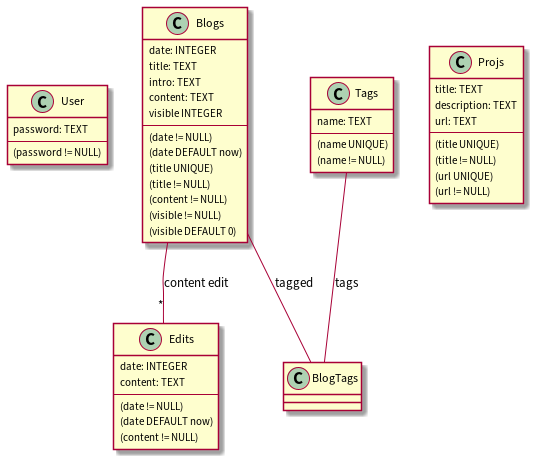
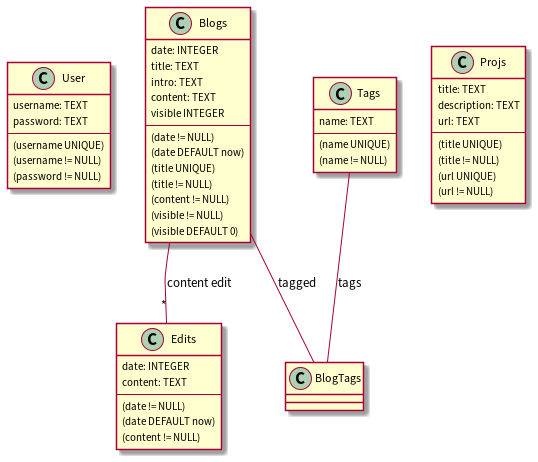
Add: user auth.

diff --git a/resources/views/layouts/header.php b/resources/views/layouts/header.php
@@ -39,10 +39,10 @@
 
     <ul id="menu">
       <li><a href="<?php echo route('about_route'); ?>">About me</a></li>
-      <li><a href="/pages/blog/">Blog Index</a></li>
+      <li><a href="<?php echo route('blog_index_route'); ?>">Blog Index</a></li>
       <li><a href="<?php echo route('contacts_route'); ?>">Contacts</a></li>
       <li>
-        <a href="<?php echo route('projects_route'); ?>">Projects</a>
+        <a href="<?php echo route('projects_route'); ?>">Projects ></a>
         <ul class="menuDropdown">
           <li><a href="<?php echo route('projects_route'); ?>">Projects</a></li>
           <li><a href="/pages/workshops/">Workshops</a></li>
@@ -51,18 +51,23 @@
       </li>
       <li>
         <a href="https://gitlab.com/JoaoCostaIFG">
-          <img src="<?php echo img('gitlab-icon.png'); ?>" alt="Gitlab" />
+          <img src="<?php echo img('gitlab-icon.png'); ?>" alt="Gitlab">
         </a>
       </li>
       <li>
         <a href="https://github.com/JoaoCostaIFG">
-          <img src="<?php echo img('github-icon.png'); ?>" alt="Github" />
+          <img src="<?php echo img('github-icon.png'); ?>" alt="Github">
         </a>
       </li>
       <li>
         <a href="/atom.xml">
-          <img src="<?php echo img('rss-icon.png'); ?>" alt="RSS" />
+          <img src="<?php echo img('rss-icon.png'); ?>" alt="RSS">
         </a>
       </li>
+      <?php if (is_auth()) { ?>
+        <li><a href="<?php echo route('user_logout_route'); ?>">Logout</a></li>
+      <?php } else { ?>
+        <li><a href="<?php echo route('user_login_route'); ?>">Login</a></li>
+      <?php } ?>
     </ul>
   </header>

diff --git a/App/Models/UserModel.php b/App/Models/UserModel.php
@@ -1,0 +1,53 @@
+<?php
+
+namespace Models;
+
+require_once $_SERVER['DOCUMENT_ROOT'] . '/database/db.php';
+
+use Database;
+use Exception;
+
+class UserModel
+{
+  private $id, $username, $password;
+
+  public function __construct($username)
+  {
+    $db = Database::instance()->db();
+
+    $stmt = $db->prepare('SELECT * FROM User WHERE user_username = ?');
+    $stmt->execute(array($username));
+
+    $blog = $stmt->fetch();
+    if ($blog === false)
+      throw new Exception("Failed to create User model.");
+
+    $this->id = $blog['user_id'];
+    $this->username = $blog['user_username'];
+    $this->password = $blog['user_password'];
+  }
+
+  /**
+   * @return User id
+   */
+  public function getId()
+  {
+    return $this->id;
+  }
+
+  /**
+   * @return User username
+   */
+  public function getUsername()
+  {
+    return $this->username;
+  }
+
+  /**
+   * @return User password
+   */
+  public function getPassword()
+  {
+    return $this->password;
+  }
+}

diff --git a/App/Controllers/UserController.php b/App/Controllers/UserController.php
@@ -1,0 +1,44 @@
+<?php
+
+namespace Controllers;
+
+use Exception;
+use Models\UserModel;
+
+class UserController
+{
+  public static function showLoginForm()
+  {
+    view('user/login_page.php');
+  }
+
+  public static function login()
+  {
+    if (!isset($_POST['username']) || !isset($_POST['password'])) {
+      // TODO set error
+      redirect('login');
+    }
+
+    try {
+      $u = new UserModel($_POST['username']);
+    } catch (Exception $e) {
+      // TODO set error
+      redirect('login');
+    }
+
+    if (!password_verify($_POST['password'], $u->getPassword())) {
+      // TODO set error
+      redirect('login');
+    }
+
+    // congrats you logged in
+    $_SESSION['u'] = $u;
+    redirect('home');
+  }
+
+  public static function logout()
+  {
+    unset($_SESSION['u']);
+    redirect('home');
+  }
+}

diff --git a/resources/php/session.php b/resources/php/session.php
@@ -1,0 +1,26 @@
+<?php
+function is_auth()
+{
+  return isset($_SESSION['u']);
+}
+
+function generate_random_token()
+{
+  return bin2hex(openssl_random_pseudo_bytes(32));
+}
+
+// To mitigate xss
+// IMP uncomments the line bellow when hosting (not localhost)
+// session_set_cookie_params(0, '/', '.joaocosta.dev', true, true);
+
+session_start();
+
+// Prevents session fixation attacks
+// Make sure the following are set in your php.ini file (both are the defaults):
+// session.use_only_cookies = 1
+// session.use_trans_sid = 0
+session_regenerate_id(true);
+
+if (!isset($_SESSION['csrf'])) {
+  $_SESSION['csrf'] = generate_random_token();
+}

diff --git a/resources/views/pages/user/login_page.php b/resources/views/pages/user/login_page.php
@@ -1,0 +1,13 @@
+<?php layout_header('Login'); ?>
+
+<h2>Login</h2>
+
+<form method="POST" action="<?php echo route('user_login_action'); ?>">
+  <label for="username"><b>Username *</b></label>
+  <input id="username" type="text" name="username" placeholder="Enter your username..." required autofocus><br>
+  <label for="password"><b>Password *</b></label>
+  <input id="password" type="password" name="password" placeholder="Enter password..." required><br>
+  <input type="submit" value="Submit">
+</form>
+
+<?php layout_footer(); ?>

diff --git a/index.php b/index.php
@@ -2,6 +2,7 @@
 require_once './vendor/autoload.php';
 require_once './resources/php/autoloader.php';
 require_once './resources/php/resource_utils.php';
+include './resources/php/session.php';
 
 use Symfony\Component\Routing\RequestContext;
 use Symfony\Component\Routing\Router;

diff --git a/resources/php/resource_utils.php b/resources/php/resource_utils.php
@@ -71,6 +71,5 @@ function partial($target)
  */
 function redirect($target)
 {
-  header('Location: ' . $target);
-  die();
+  die(header('Location: ' . $target));
 }
